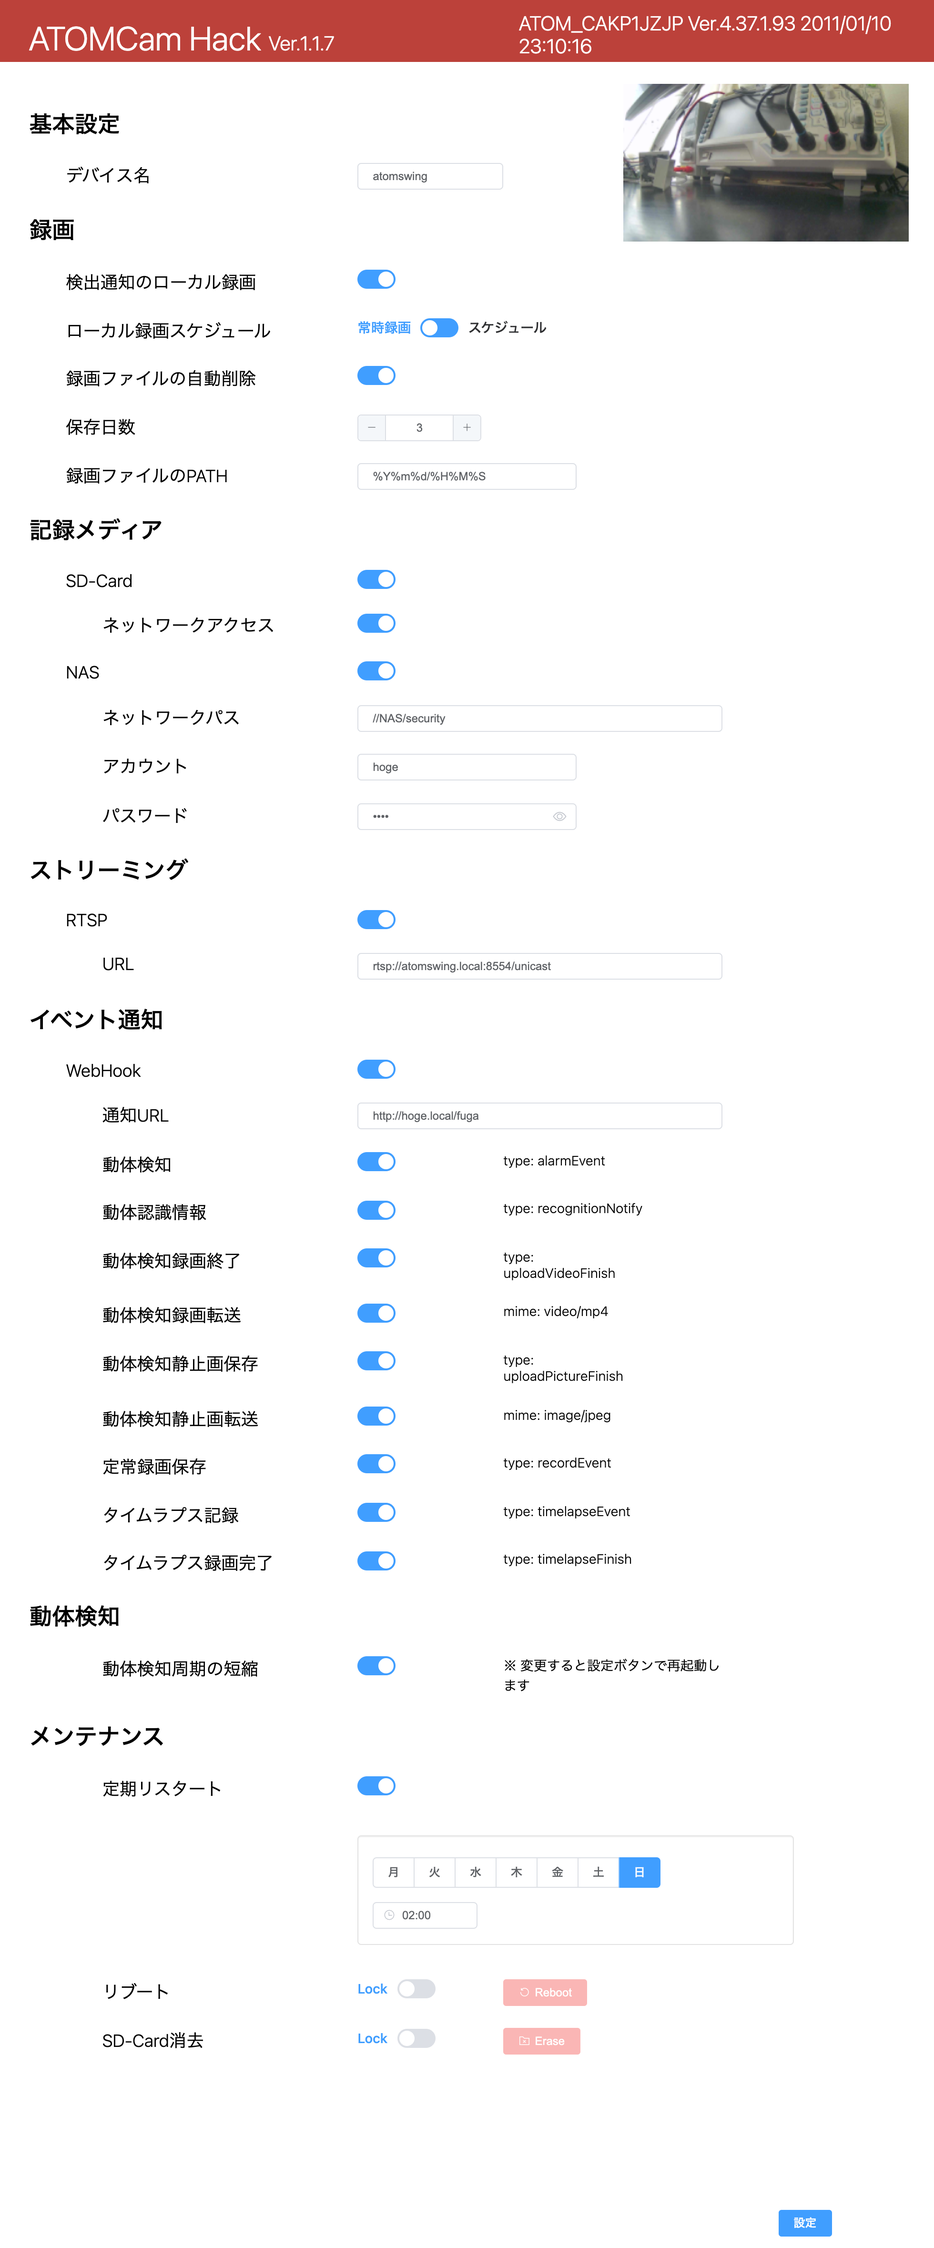
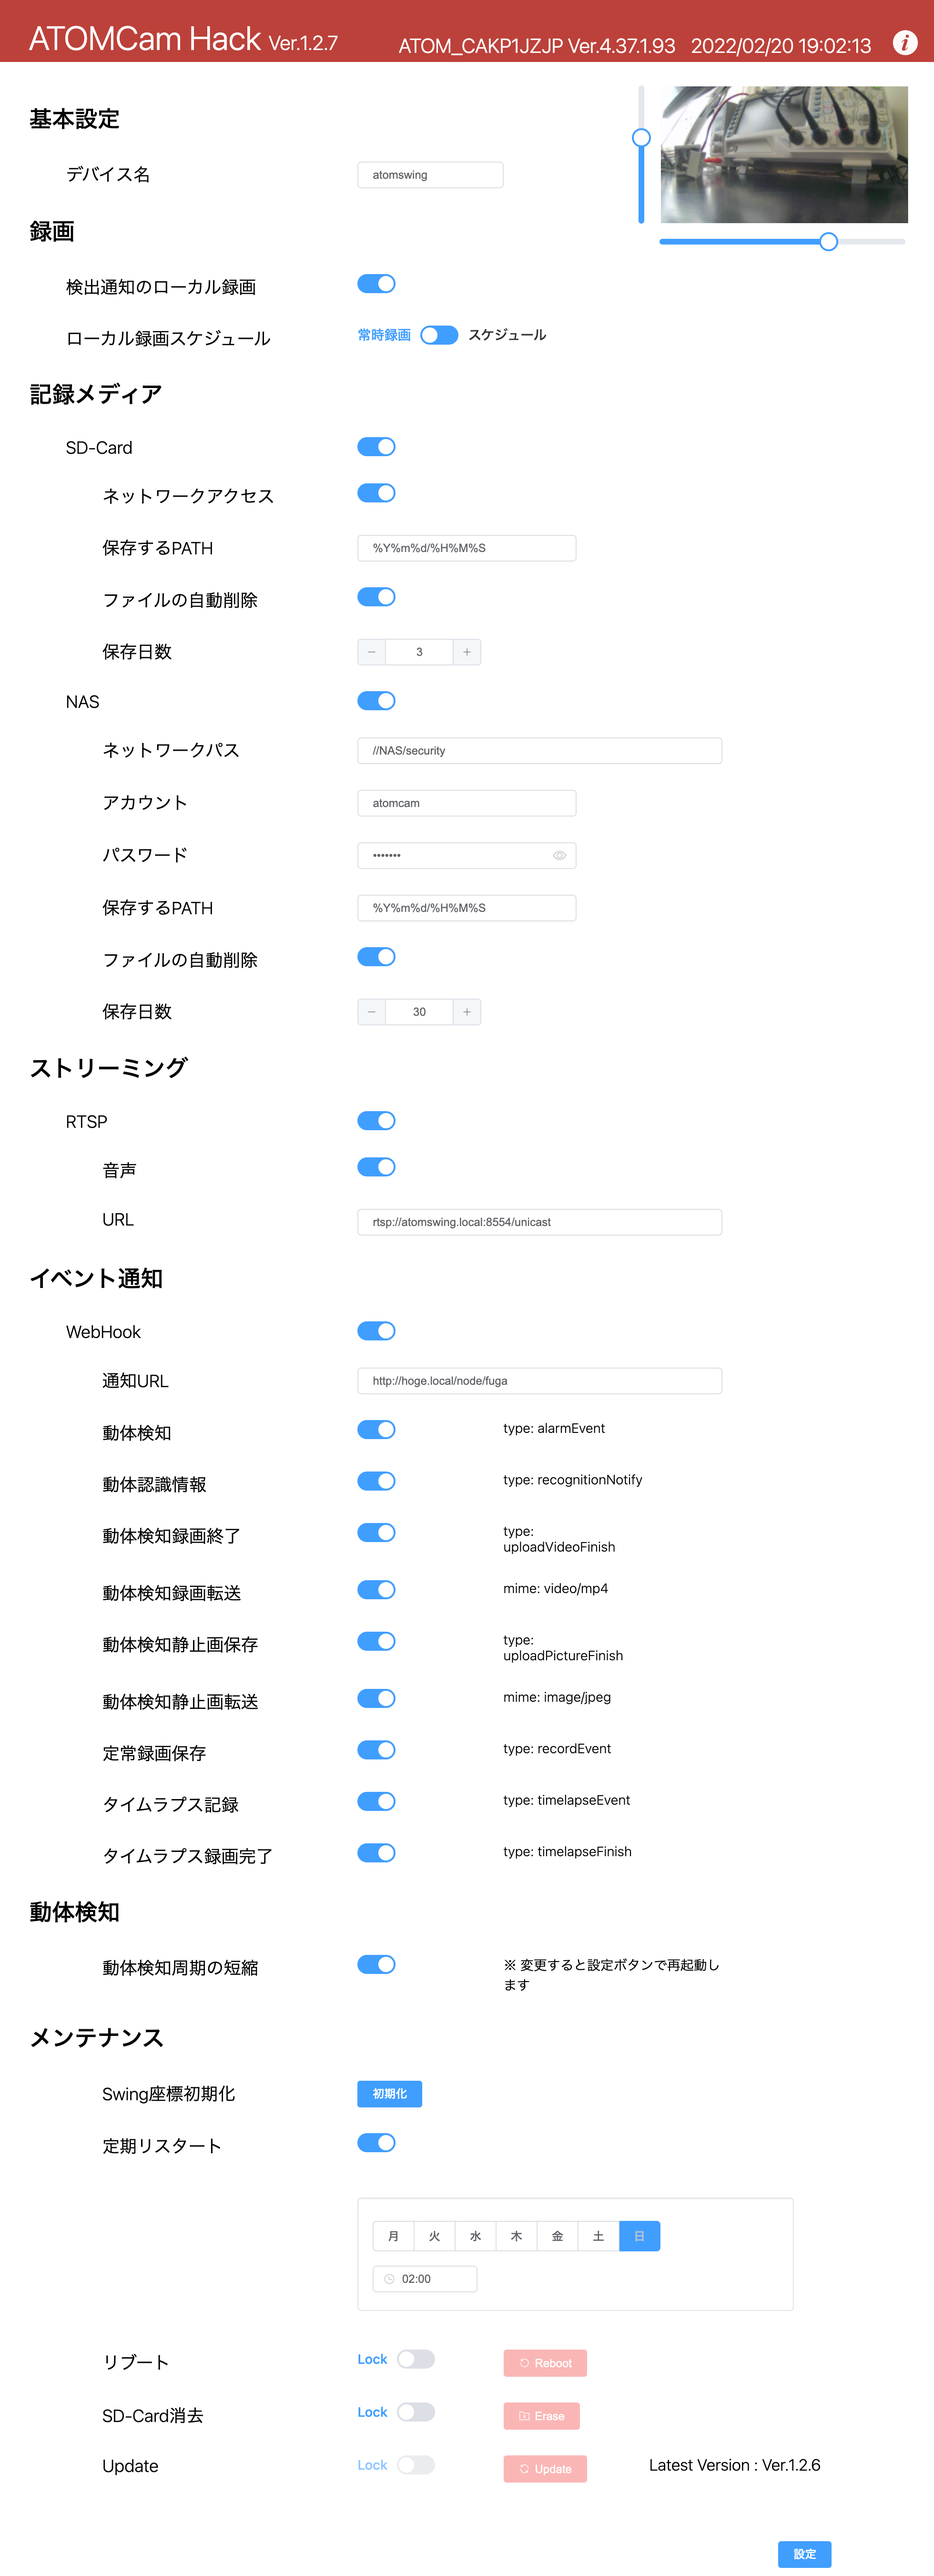
Swingのpan/tilt制御追加 - WebUI   - camera view windowに操作用のslider追加   - WebUIのメンテナンスに座標系がずれた時に初期化するためのボタン追加 - command I/F   - posrec : 現在位置を/atom/config/.user_configのslider_x,yに設定するコマンドを追加   - moveinit: pan/tiltの座標系を初期化するコマンドを追加 - cgiを整理   - get_latest_ver.cgi, get_time.cgi, exec.cgiをcmd.cgiに集約

diff --git a/web/source/vue/Setting.vue b/web/source/vue/Setting.vue
@@ -20,9 +20,15 @@
     </div>
     <div class="well-transparent container">
       <div class="image-frame" :style="imageFrameStyle">
-        <ElTooltip :tabindex="-1" placement="top" :content="stillFullView?'clickで縮小します':'clickで拡大します'" effect="light" :open-delay="500">
-          <img class="still-image" :src="`/cgi-bin/get_jpeg.cgi?r=${stillCount}`" @click="stillFullView=!stillFullView">
-        </ElTooltip>
+        <div class="image-frame-inner1">
+          <ElSlider v-if="isSwing" class="tilt-slider" v-model="tilt" :min="0" :max="180" vertical :show-input-controls="false" height="100%" @input="Move" />
+          <ElTooltip :tabindex="-1" placement="top" :content="stillFullView?'clickで縮小します':'clickで拡大します'" effect="light" :open-delay="500">
+            <img class="still-image" :src="`/cgi-bin/get_jpeg.cgi?r=${stillCount}`" @click="stillFullView=!stillFullView">
+          </ElTooltip>
+        </div>
+        <div v-if="isSwing" class="image-frame-inner2">
+          <ElSlider class="pan-slider" v-model="pan" :min="0" :max="355" :show-input-controls="false" @input="Move" />
+        </div>
       </div>
       <h3>基本設定</h3>
       <ElRow>
@@ -404,6 +410,17 @@
       </ElRow>
 
       <h3>メンテナンス</h3>
+      <ElRow v-if="isSwing">
+        <ElCol :offset="2" :span="7">
+          <ElTooltip :tabindex="-1" placement="top" content="Swingの座標を両側の端点当てで修正します" effect="light" :open-delay="500">
+            <h4>Swing座標初期化</h4>
+          </ElTooltip>
+        </ElCol>
+        <ElCol :span="4">
+          <ElButton @click="MoveInit" type="primary" size="mini">初期化</ElButton>
+        </ElCol>
+      </ElRow>
+
       <ElRow>
         <ElCol :offset="2" :span="7">
           <ElTooltip :tabindex="-1" placement="top" content="定期的に再起動する設定をします" effect="light" :open-delay="500">
@@ -495,7 +512,7 @@
 
 <script>
   import axios from 'axios';
-  import { Tooltip, Switch, Input, InputNumber, CheckboxGroup, CheckboxButton, TimePicker, Drawer } from 'element-ui';
+  import { Tooltip, Switch, Input, InputNumber, CheckboxGroup, CheckboxButton, TimePicker, Drawer, Slider } from 'element-ui';
   import 'element-ui/lib/theme-chalk/tooltip.css';
   import 'element-ui/lib/theme-chalk/switch.css';
   import 'element-ui/lib/theme-chalk/input.css';
@@ -503,6 +520,7 @@
   import 'element-ui/lib/theme-chalk/checkbox.css';
   import 'element-ui/lib/theme-chalk/time-picker.css';
   import 'element-ui/lib/theme-chalk/drawer.css';
+  import 'element-ui/lib/theme-chalk/slider.css';
 
   export default {
     name: 'ATOMCamSetting',
@@ -515,6 +533,7 @@
       ElCheckboxButton: CheckboxButton,
       ElTimePicker: TimePicker,
       ElDrawer: Drawer,
+      ElSlider: Slider,
     },
     data() {
       return {
@@ -574,6 +593,9 @@
         stillCount: 0,
         stillFullView: false,
         weekDays: ['月','火', '水', '木', '金', '土', '日'],
+        pan: 0,
+        tilt: 0,
+        posValid: false,
       };
     },
     computed: {
@@ -594,6 +616,9 @@
         if(parseInt(ver[1]) > parseInt(latest[1])) return false;
         if(parseInt(ver[2]) < parseInt(latest[2])) return true;
         return false;
+      },
+      isSwing() {
+        return !this.rebooting && this.posValid && (this.config.PRODUCT_MODEL === 'ATOM_CAKP1JZJP');
       },
     },
     async mounted() {
@@ -638,12 +663,20 @@
         }, []);
       }
 
-      const latest = await axios.get('./cgi-bin/get_latest_ver.cgi').catch(err => {
+      const status = (await axios.get('./cgi-bin/cmd.cgi').catch(err => {
         // eslint-disable-next-line no-console
         console.log(err);
-        return '';
-      });
-      this.latestVer = latest.data.replace(/^.*LATESTVER[= ]*([\d.]*)\n*$/, '$1');
+        return { data: '' };
+      })).data.split('\n').reduce((s, d) => {
+        s[d.replace(/=.*$/, '').trim()] = d.replace(/^.*=/, '').trim();
+        return s;
+      }, {});
+
+      this.latestVer = status.LATESTVER;
+      const pos = status.MOTORPOS.split(' ');
+      this.pan = parseFloat(pos[0]);
+      this.tilt = parseFloat(pos[1]);
+      this.posValid = true;
 
       if(this.config.REBOOT_SCHEDULE) {
         const str = this.config.REBOOT_SCHEDULE.split(' ');
@@ -655,7 +688,7 @@
       this.RTSP_URL = `rtsp://${window.location.host}:8554/unicast`;
 
       setInterval(async () => {
-        const res = await axios.get('./cgi-bin/get_time.cgi').catch(err => {
+        const res = await axios.get('./cgi-bin/cmd.cgi?name=time').catch(err => {
           // eslint-disable-next-line no-console
           console.log(err);
           return '';
@@ -673,11 +706,40 @@
         }, {});
       }, 1000);
       this.StillImageInterval();
+      if(this.isSwing) this.GetPosInterval();
     },
     methods: {
+      async Move() {
+        if(!this.posValid) return;
+        this.Exec(`move ${this.pan} ${this.tilt}`, 'socket');
+        this.StillImageInterval();
+        if(this.moveTimeout) clearTimeout(this.moveTimeout);
+        this.moveTimeout = setTimeout(() => {
+          this.moveTimeout = null;
+          this.Exec('posrec');
+        }, 3000);
+      },
+      async GetPosInterval() {
+        const status = (await axios.get('./cgi-bin/cmd.cgi?name=move').catch(err => {
+          // eslint-disable-next-line no-console
+          console.log(err);
+          return { data: '' };
+        })).data.split('\n').reduce((s, d) => {
+          s[d.replace(/=.*$/, '').trim()] = d.replace(/^.*=/, '').trim();
+          return s;
+        }, {});
+        if(status.MOTORPOS) {
+          const pos = status.MOTORPOS.split(' ');
+          this.pan = parseFloat(pos[0]);
+          this.tilt = parseFloat(pos[1]);
+        }
+        if(this.getposTimeout) clearTimeout(this.getposTimeout);
+        this.getposTimeout = setTimeout(this.GetPosInterval.bind(this), 1000);
+      },
       StillImageInterval() {
         this.stillCount++;
-        setTimeout(this.StillImageInterval.bind(this), this.stillInterval);
+        if(this.imageTimeout) clearTimeout(this.imageTimeout);
+        this.imageTimeout = setTimeout(this.StillImageInterval.bind(this), this.stillInterval);
       },
       AddSchedule() {
         this.schedule.push({
@@ -693,6 +755,9 @@
       },
       FixPath(label) {
         this.config[label] = this.config[label].replace(/\\/g, '/');
+      },
+      MoveInit() {
+        this.Exec('moveinit');
       },
       DoReboot() {
         this.rebootTime = 80;
@@ -796,8 +861,8 @@
           });
         }
       },
-      async Exec(cmd) {
-        await axios.post('./cgi-bin/exec.cgi', { exec: `${cmd}` }).catch(err => {
+      async Exec(cmd, port) {
+        return await axios.post(`./cgi-bin/cmd.cgi?port=${port}`, { exec: cmd }).catch(err => {
           // eslint-disable-next-line no-console
           console.log(err);
         });
@@ -849,12 +914,33 @@
 
   .image-frame {
     z-index: 100;
-    display: block;
+    display: flex;
     position: fixed;
+    flex-direction: column;
+  }
+
+  .image-frame-inner1 {
+    justify-content: flex-end;
+    display: flex;
+  }
+
+  .image-frame-inner2 {
+    justify-content: flex-end;
+    display: flex;
   }
 
   .still-image {
-    width: 100%;
+    width: calc(100% - 36px);
+  }
+
+  .pan-slider {
+    background-color: white;
+    width: calc(100% - 36px);
+  }
+
+  .tilt-slider {
+    background-color: white;
+    align-items: stretch;
   }
 
   .environment {

diff --git a/libcallback/motor.c b/libcallback/motor.c
@@ -8,9 +8,13 @@ extern int local_sdk_motor_move_abs_angle(float pan, float tilt, int speed, void
 extern void CommandResponse(int fd, const char *res);
 
 static int motorFd = 0;
-static void motor_move_done(float a, float b) {
+static void motor_move_done(float pan, float tilt) {
 
-  if(motorFd) CommandResponse(motorFd, "ok");
+  if(motorFd) {
+    static char motorResBuf[256];
+    sprintf(motorResBuf, "%f %f\n", pan, tilt);
+    CommandResponse(motorFd, motorResBuf);
+  }
   motorFd = 0;
 }
 
